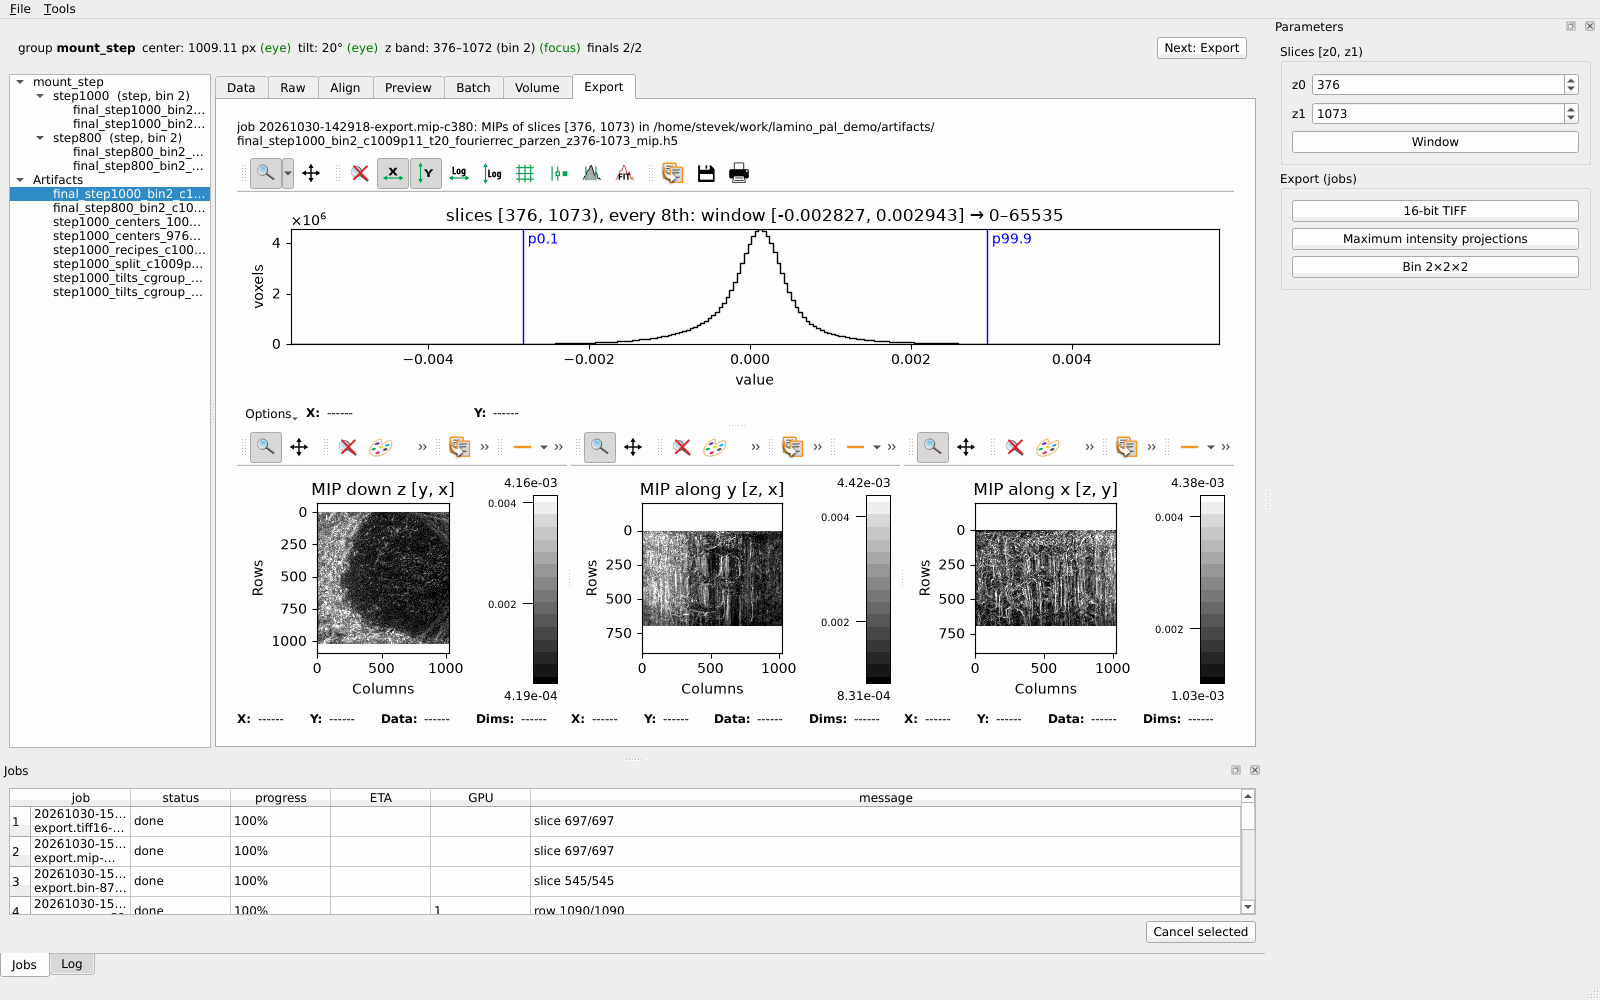
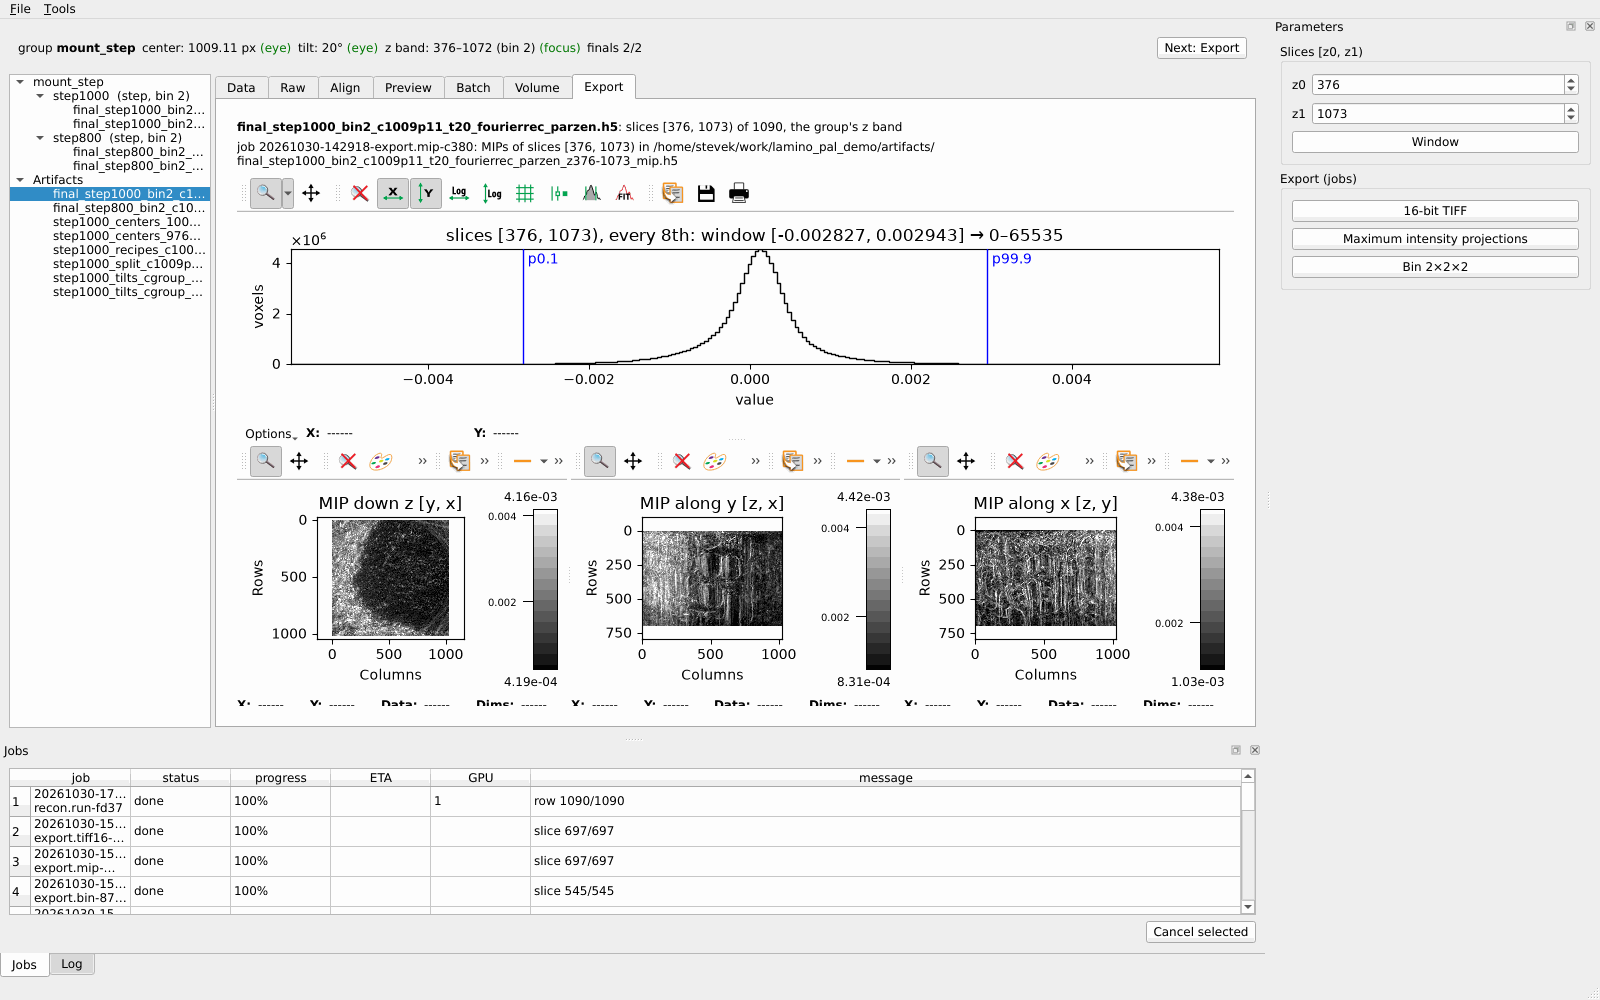
gui: write export results under the volume header (ExportTab.exported)
ExportTab.info had two writers, _default_z naming the volume and on_job
naming the last job's output, so the last one won and the header could
describe an export instead of the volume. Job results now go to their
own line, cleared when the volume changes.

diff --git a/python/lamino_pal/gui/tabs/export.py b/python/lamino_pal/gui/tabs/export.py
@@ -28,6 +28,8 @@ class ExportTab(Tab):
     def __init__(self, win):
         super().__init__(win)
         self.info = qt.QLabel(wordWrap=True)
+        # What the last export job wrote; the line above is the volume's alone.
+        self.exported = qt.QLabel(wordWrap=True)
         self.hist = self.graph("histogram", "value", "voxels")
         self.mips = {}
         row = qt.QSplitter(qt.Qt.Horizontal)
@@ -44,6 +46,7 @@ class ExportTab(Tab):
         split.setSizes([250, 650])
         layout = qt.QVBoxLayout(self)
         layout.addWidget(self.info)
+        layout.addWidget(self.exported)
         layout.addWidget(split, 1)
         self._vol: str | None = None
         self._z: tuple | None = None  # the default z range last set, with its reason
@@ -63,6 +66,7 @@ class ExportTab(Tab):
         if self.win.volume != self._vol:
             self._vol = self.win.volume
             self._z = None
+            self.exported.clear()
             self.hist.clear()
             for p in self.mips.values():
                 p.clear()
@@ -141,9 +145,9 @@ class ExportTab(Tab):
             for k, p in self.mips.items():
                 lo, hi = window(a[k])
                 p.addImage(a[k], legend="mip", colormap=Colormap("gray", vmin=lo, vmax=hi), resetzoom=True)
-            self.info.setText(f"job {st.id}: MIPs of slices [{r['z'][0]}, {r['z'][1]}) in {out}")
+            self.exported.setText(f"job {st.id}: MIPs of slices [{r['z'][0]}, {r['z'][1]}) in {out}")
         elif st.op == "export.tiff16":
             w = r["window"]
-            self.info.setText(f"job {st.id}: {out}, {r['shape'][0]} slices, window [{w[0]:.4g}, {w[1]:.4g}]")
+            self.exported.setText(f"job {st.id}: {out}, {r['shape'][0]} slices, window [{w[0]:.4g}, {w[1]:.4g}]")
         elif st.op == "export.bin":
-            self.info.setText(f"job {st.id}: {out}, {'×'.join(map(str, r['shape']))}")
+            self.exported.setText(f"job {st.id}: {out}, {'×'.join(map(str, r['shape']))}")

diff --git a/tests/test_gui.py b/tests/test_gui.py
@@ -704,6 +704,20 @@ def test_the_export_slices_follow_the_band_and_keep_a_hand_edit(app, win):
     assert (ex.z0.value(), ex.z1.value()) == (5, 21)
 
 
+def test_an_export_job_leaves_the_header_naming_the_volume(app, win):
+    win._select("volume", "v.h5")
+    ex = win.tabs["Export"]
+    head = ex.info.text()
+    assert head.startswith("<b>v.h5</b>")
+    ended = []
+    win.jobs.ended.connect(ended.append)
+    ex.export("export.mip")
+    assert pump(app, 60, lambda: ended) and ended[0].status == "done"
+    pump(app, 0.1)
+    assert ex.info.text() == head
+    assert ex.exported.text().startswith(f"job {ended[0].id}: MIPs of slices")
+
+
 def test_the_volume_tab_shows_the_band_carried_to_the_volumes_tilt(app, win):
     (win.project.work_dir / "fig.png").write_bytes(b"")
     d20, d30 = _core.lamino_depth(32, 20.0), _core.lamino_depth(32, 30.0)

diff --git a/docs/manual/README.md b/docs/manual/README.md
@@ -245,8 +245,8 @@ Compare/Split 결과(표, 변형 레이어)는 위 입력을 바꾸거나 **Prev
    ![MIP](30-mip.png)
 
 4. **16-bit TIFF**는 그 범위를 window로 16-bit BigTIFF
-   `<stem>_z<z0>-<z1>_16bit.tif`에 쓴다(작업). 끝나면 머리글에 파일, slice 수,
-   window가 나온다.
+   `<stem>_z<z0>-<z1>_16bit.tif`에 쓴다(작업). 끝나면 volume을 적은 머리글 아래
+   줄에 작업, 파일, slice 수, window가 나온다. MIP와 Bin도 같은 줄에 나온다.
 
    ![TIFF](31-tiff.png)
 
